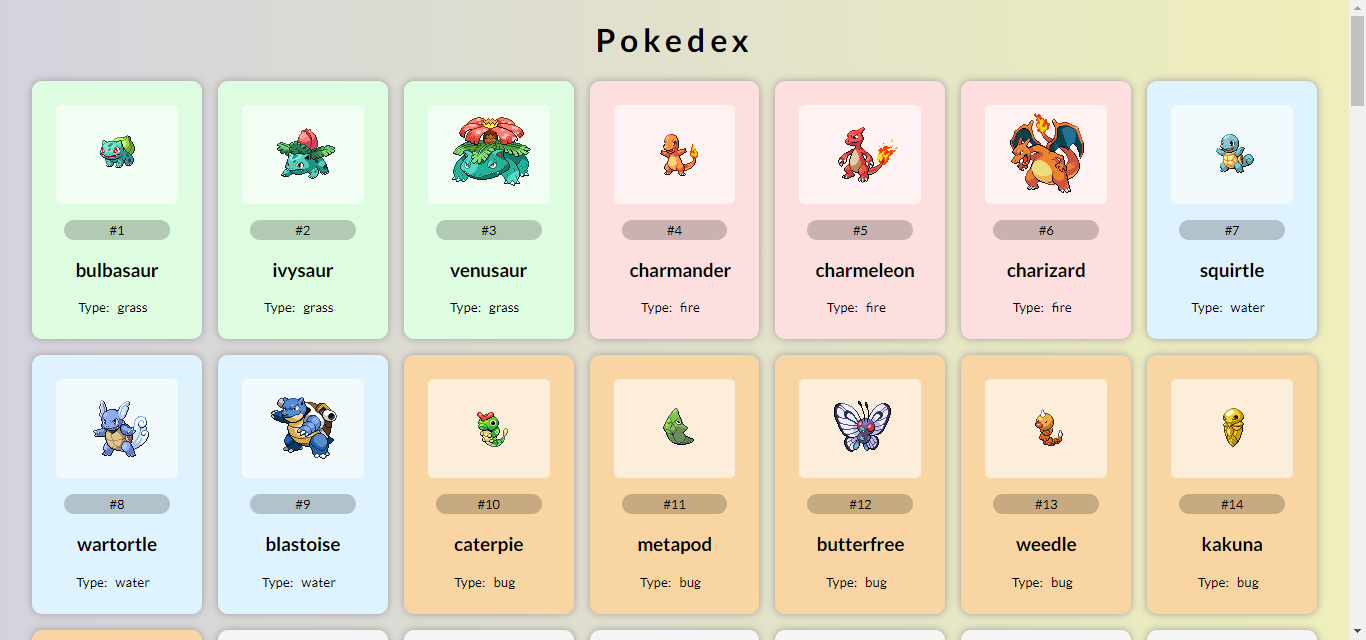
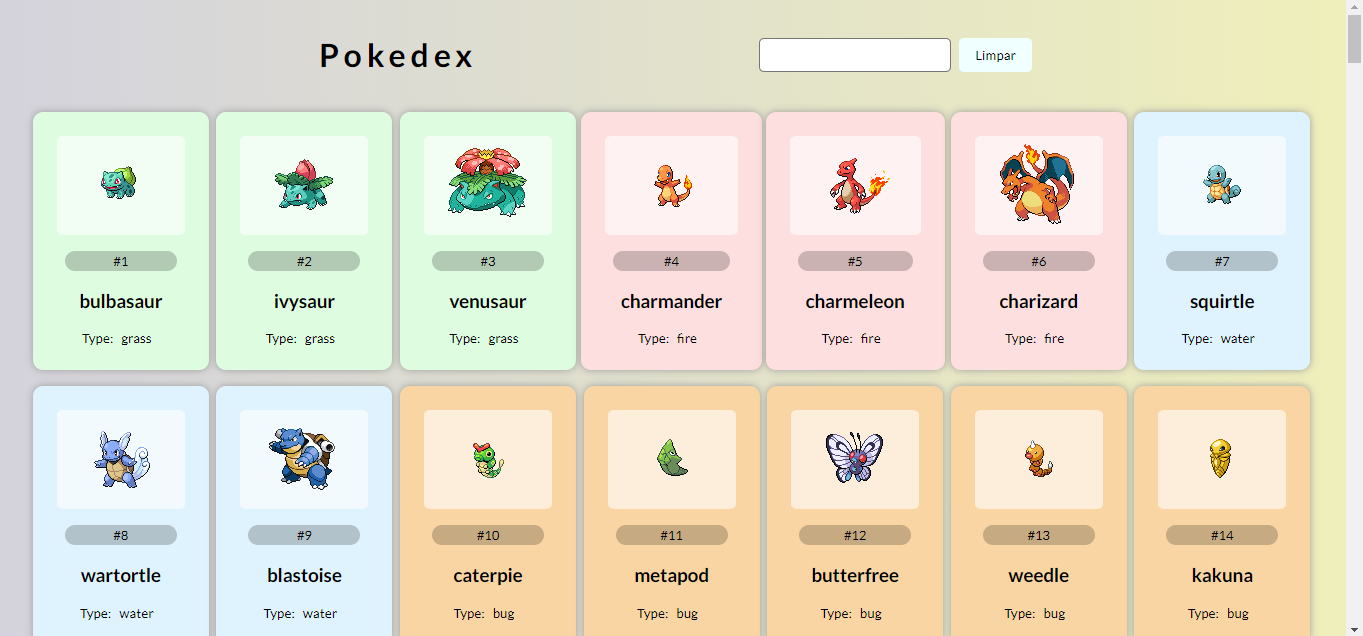
feat: adinonado funcionalidade de pesquisar pelos nomes do pokemon

diff --git a/script.js b/script.js
@@ -1,5 +1,14 @@
+/* Variáveis para manipular o DOM */
+const container = document.querySelector(".container");
 const pokeContainer = document.querySelector(".pokeContainer");
-const pokeCount = 600;
+const pokeFilterContainer = document.querySelector(".pokeFilter");
+const inputSearch = document.querySelector("input");
+const btnClear = document.querySelector("button");
+
+/* Variáveis para trabalhar com a API */
+const pokeCount = 100;
+var manyPokemons = [];
+var filteredPokemons = [];
 const colors = {
   fire: "#FDDFDF",
   grass: "#DEFDE0",
@@ -21,13 +30,54 @@ async function fetchPokemons() {
   for (i = 1; i <= pokeCount; i++) {
     await getPokemon(i);
   }
+
+  pokeFilterContainer.style.display = "none";
+  pokeContainer.style.display = "grid";
+
+  manyPokemons.forEach((pokemon) => {
+    createPokeContainer(pokemon);
+  });
+  console.log(manyPokemons);
+
+  container.appendChild(pokeContainer);
 }
 
 async function getPokemon(id) {
   const response = await fetch(`https://pokeapi.co/api/v2/pokemon/${id}`);
   const data = await response.json();
-  createPokeCard(data);
+  createPokeContainer(data);
+  manyPokemons.push(data);
 }
+
+inputSearch.addEventListener("keyup", () => {
+  let searchName = inputSearch.value;
+
+  filteredPokemons = manyPokemons.filter((poke) => {
+    if (poke.name.startsWith(searchName)) return poke.name;
+  });
+
+  pokeContainer.style.display = "none";
+  pokeFilterContainer.style.display = "grid";
+
+  pokeFilterContainer.innerHTML = "";
+
+  console.log(filteredPokemons);
+  filteredPokemons.forEach((poke) => {
+    createFilteredContainer(poke);
+  });
+
+  container.appendChild(pokeFilterContainer);
+});
+
+btnClear.addEventListener("click", () => {
+  inputSearch.value = "";
+
+  pokeFilterContainer.style.display = "none";
+  pokeContainer.style.display = "grid";
+  manyPokemons.forEach((pokemon) => {
+    createPokeContainer(pokemon);
+  });
+});
 
 async function createPromisse(id) {
   const response = await fetch(`https://pokeapi.co/api/v2/pokemon/${id}`);
@@ -69,7 +119,7 @@ function createPokeCard(poke) {
 
   card.style.backgroundColor = color;
 
-  // console.log(name, id, type);
+  console.log(name, id, type);
   const cardInnerHTML = `
       <div class="imageContainer">
         <img
@@ -85,7 +135,18 @@ function createPokeCard(poke) {
     `;
 
   card.innerHTML = cardInnerHTML;
+
+  return card;
+}
+
+function createPokeContainer(poke) {
+  card = createPokeCard(poke);
   pokeContainer.appendChild(card);
+}
+
+function createFilteredContainer(poke) {
+  card = createPokeCard(poke);
+  pokeFilterContainer.appendChild(card);
 }
 
 fetchPokemons();

diff --git a/style.css b/style.css
@@ -9,6 +9,35 @@
 
 header {
   margin: 1rem;
+  display: flex;
+  align-items: center;
+  justify-content: space-evenly;
+  flex-wrap: wrap;
+}
+
+input {
+  padding: 0.5rem;
+  border-radius: 5px;
+  border-style: solid;
+  border-width: 1px;
+  max-width: 25rem;
+  min-width: 12rem;
+  flex: 1;
+}
+
+.search {
+  display: flex;
+  flex-wrap: wrap;
+  justify-content: center;
+  gap: 0.5rem;
+}
+
+button {
+  background-color: azure;
+  border: none;
+  padding: 0.5rem 1rem;
+  border-radius: 5px;
+  cursor: pointer;
 }
 
 h1 {
@@ -24,10 +53,12 @@ body {
   justify-content: space-between; */
 }
 
-.pokeContainer {
+.pokeContainer,
+.pokeFilter {
   display: grid;
   grid-template-columns: repeat(auto-fit, minmax(150px, 1fr));
   gap: 1rem;
+  justify-items: center;
 }
 
 .pokemon {

diff --git a/index.html b/index.html
@@ -7,9 +7,17 @@
     <link rel="stylesheet" href="style.css" />
   </head>
   <body>
-    <header><h1>Pokedex</h1></header>
-
-    <div class="pokeContainer" id="containerPokemon"></div>
+    <header>
+      <div><h1>Pokedex</h1></div>
+      <div class="search">
+        <input type="text" name="" id="" />
+        <button>Limpar</button>
+      </div>
+    </header>
+    <div class="container">
+      <div class="pokeContainer" id="containerPokemon"></div>
+      <div class="pokeFilter"></div>
+    </div>
 
     <script src="script.js"></script>
   </body>
